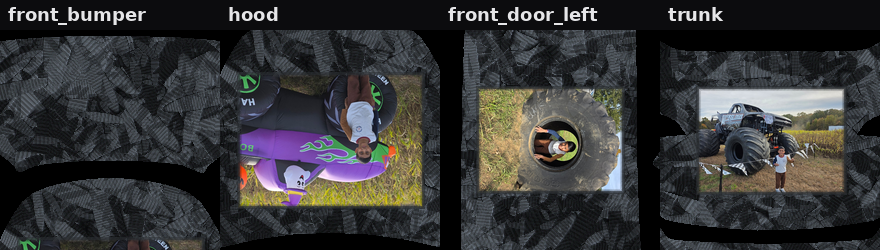
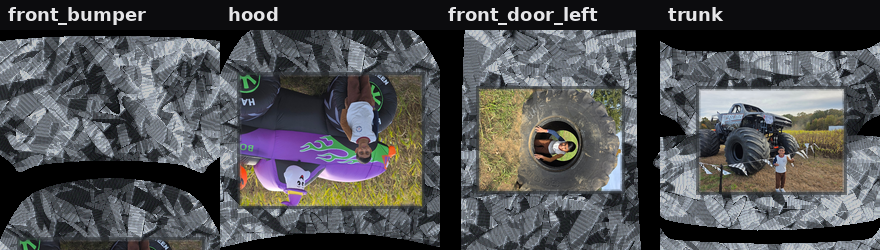
Lighten the forged carbon so the flakes read
Raise the mid and light gunmetal against the charcoal and strengthen the clearcoat. Photo placement and rotation stay the same, and the PNG stays under 1 MB.

diff --git a/designs/modely-2024-forged-carbon/forged_carbon.py b/designs/modely-2024-forged-carbon/forged_carbon.py
@@ -11,8 +11,9 @@ import numpy as np
 from scipy.ndimage import gaussian_filter
 
 SEED = 2024
-QUANTIZE_STEP = 4
-MAX_CHANNEL = 168
+QUANTIZE_STEP = 6
+# Gloss peaks stay below the near-white test so highlights never read as unfilled template.
+MAX_CHANNEL = 200
 
 
 def _uhash(ix: np.ndarray, iy: np.ndarray, k: int, seed: int) -> np.ndarray:
@@ -150,9 +151,11 @@ def _paint_layer(flakes: dict, marble: np.ndarray) -> tuple[np.ndarray, np.ndarr
     strand_fine = np.sin(projection * flakes["frequency"] * 2.1 + flakes["phase"] * 1.3)
     fiber = np.clip(0.5 + 0.5 * (0.78 * strand + 0.22 * strand_fine), 0.0, 1.0)
     fiber = np.clip((fiber - 0.35) / 0.65, 0.0, 1.0) ** 0.55
-    gunmetal_probability = 0.16 + 0.64 * marble
-    is_gunmetal = flakes["shade"] < gunmetal_probability
-    tone = np.where(is_gunmetal, 0.50 + 0.50 * flakes["shade"], 0.02 + 0.08 * flakes["shade"])
+    # Marble clusters the lighter tows. Charcoal stays in the pockets; mid and light gunmetal carry the pattern.
+    roll = np.clip(0.50 * flakes["shade"] + 0.50 * marble, 0.0, 1.0)
+    light = roll > 0.66
+    mid = (roll > 0.42) & ~light
+    tone = np.where(light, 0.90 + 0.10 * flakes["shade"], np.where(mid, 0.42 + 0.16 * flakes["shade"], 0.02 + 0.08 * flakes["shade"]))
     return tone, fiber, mask
 
 
@@ -171,37 +174,39 @@ def render_field(size: int = 1024, seed: int = SEED) -> np.ndarray:
         (_flakes(size, 16, 2, seed + 29, cover=0.82), marble * 0.85, 0.42),
     )
     grain = lattice_noise(size, _cell_count(size, max(8, size // 16)), seed + 5)
-    rgb = np.array([7.0, 8.0, 9.0]) + grain[..., None] * np.array([7.0, 7.5, 8.0])
-    charcoal = np.array([15.0, 16.0, 17.0])
-    gunmetal = np.array([108.0, 116.0, 124.0])
+    rgb = np.array([12.0, 13.0, 15.0]) + grain[..., None] * np.array([6.0, 7.0, 8.0])
+    charcoal = np.array([22.0, 24.0, 26.0])
+    gunmetal = np.array([176.0, 184.0, 194.0])
     for flakes, marble_layer, opacity in layers:
         tone, fiber, mask = _paint_layer(flakes, marble_layer)
         chip = charcoal + (gunmetal - charcoal) * tone[..., None]
-        lift = (fiber - 0.25) * (16.0 + 36.0 * tone)
+        lift = (fiber - 0.22) * (14.0 + 36.0 * tone)
         chip = chip + lift[..., None] * np.array([0.90, 1.0, 1.12])
         alpha = (mask * opacity)[..., None]
         rgb = chip * alpha + rgb * (1.0 - alpha)
 
     luma = rgb.mean(axis=2)
-    height = gaussian_filter(luma, sigma=0.75, mode="wrap")
+    height = gaussian_filter(luma, sigma=0.7, mode="wrap")
     gy = (np.roll(height, -1, axis=0) - np.roll(height, 1, axis=0)) * 0.5
     gx = (np.roll(height, -1, axis=1) - np.roll(height, 1, axis=1)) * 0.5
-    facing = np.clip((-gx * 0.85 - gy * 0.50) / (np.hypot(gx, gy) + 5.0) + 0.25, 0.0, 1.0)
-    specular = facing ** 4
+    facing = np.clip((-gx * 1.05 - gy * 0.62) / (np.hypot(gx, gy) + 3.5) + 0.08, 0.0, 1.0)
+    specular = facing ** 3.2
+    sharp = facing ** 14
     sheen_sigma = max(10, size // 40)
     sheen = gaussian_filter(luma, sigma=sheen_sigma, mode="wrap")
     sy = (np.roll(sheen, -1, axis=0) - np.roll(sheen, 1, axis=0)) * 0.5
     sx = (np.roll(sheen, -1, axis=1) - np.roll(sheen, 1, axis=1)) * 0.5
-    broad = np.clip(0.32 + (-sx * 1.45 - sy * 0.72) / (size * 0.018), 0.0, 1.0) ** 1.15
-    rgb = rgb * (0.76 + 0.42 * broad[..., None])
-    rgb = rgb + (24.0 * specular)[..., None] * np.array([0.75, 0.84, 1.0])
+    broad = np.clip(0.25 + (-sx * 1.6 - sy * 0.8) / (size * 0.016), 0.0, 1.0) ** 1.1
+    rgb = rgb * (0.98 + 0.16 * broad[..., None])
+    highlight = np.array([0.82, 0.90, 1.0])
+    rgb = rgb + (18.0 * specular + 34.0 * sharp)[..., None] * highlight
     micro = lattice_noise(size, _cell_count(size, max(16, size // 6)), seed + 77)
-    rgb = rgb + (7.0 * (micro ** 3))[..., None] * np.array([0.80, 0.86, 1.0])
+    rgb = rgb + (8.0 * (micro ** 2.6))[..., None] * np.array([0.82, 0.88, 1.0])
     return np.clip(rgb, 0.0, MAX_CHANNEL)
 
 
 def field_to_u8(field: np.ndarray, step: int = QUANTIZE_STEP) -> np.ndarray:
-    """Quantize to 8-bit. Step 4 keeps the PNG under the 1 MB Paint Shop limit."""
+    """Quantize to 8-bit. Step 6 keeps the PNG under the 1 MB Paint Shop limit."""
     values = np.clip(np.rint(field), 0, MAX_CHANNEL).astype(np.uint8)
     if step > 1:
         values = (values // np.uint8(step)) * np.uint8(step)

diff --git a/designs/modely-2024-forged-carbon/test_wrap.py b/designs/modely-2024-forged-carbon/test_wrap.py
@@ -80,16 +80,19 @@ class WrapTests(unittest.TestCase):
         }
         for axis, ratio in ratios.items():
             self.assertGreater(ratio, 0.7, axis)
-            self.assertLess(ratio, 1.25, axis)
+            self.assertLess(ratio, 1.45, axis)
 
-    def test_palette_is_dark_gunmetal(self):
+    def test_palette_is_visible_gunmetal(self):
         paintable = paintable_mask(self.template)
         pixels = self.rgba[:, :, :3][paintable].astype(np.float32)
-        mean = pixels.mean()
-        self.assertGreater(mean, 20)
-        self.assertLess(mean, 90)
+        mean = float(pixels.mean())
+        # Lifted off the old near-black field, still charcoal and gunmetal rather than silver.
+        self.assertGreater(mean, 70)
+        self.assertLess(mean, 120)
         spread = pixels.max(axis=1) - pixels.min(axis=1)
-        self.assertLess(float(spread.mean()), 18.0)
+        self.assertLess(float(spread.mean()), 28.0)
+        # Light fragments have to show against the charcoal, not just a flat gray.
+        self.assertGreater(float(np.percentile(pixels.mean(axis=1), 80)), mean + 18)
 
     def test_fibers_are_not_a_single_weave_direction(self):
         gray = self.field.mean(axis=2).astype(np.float32)

diff --git a/designs/modely-2024-forged-carbon/README.md b/designs/modely-2024-forged-carbon/README.md
@@ -9,7 +9,7 @@ The finished example is `modely/example/Forged_Carbon.png`.
 Tesla's template is a 1024×1024 visualization UV for Toybox → Paint Shop. White-looking islands in `modely/template.png` are the paintable body panels (every pixel with alpha above zero). This design fills those islands with one periodic forged-carbon field:
 
 - chopped tow, not a woven twill
-- irregular flakes of dark gunmetal gray and deep black charcoal
+- mid and light gunmetal flakes marbled through deep charcoal, with clearcoat highlights
 - fiber direction changes from flake to flake
 - a clearcoat sheen for layered gloss
 - the same scale and phase on the hood, roof, trunk, both doors, and the remaining islands
